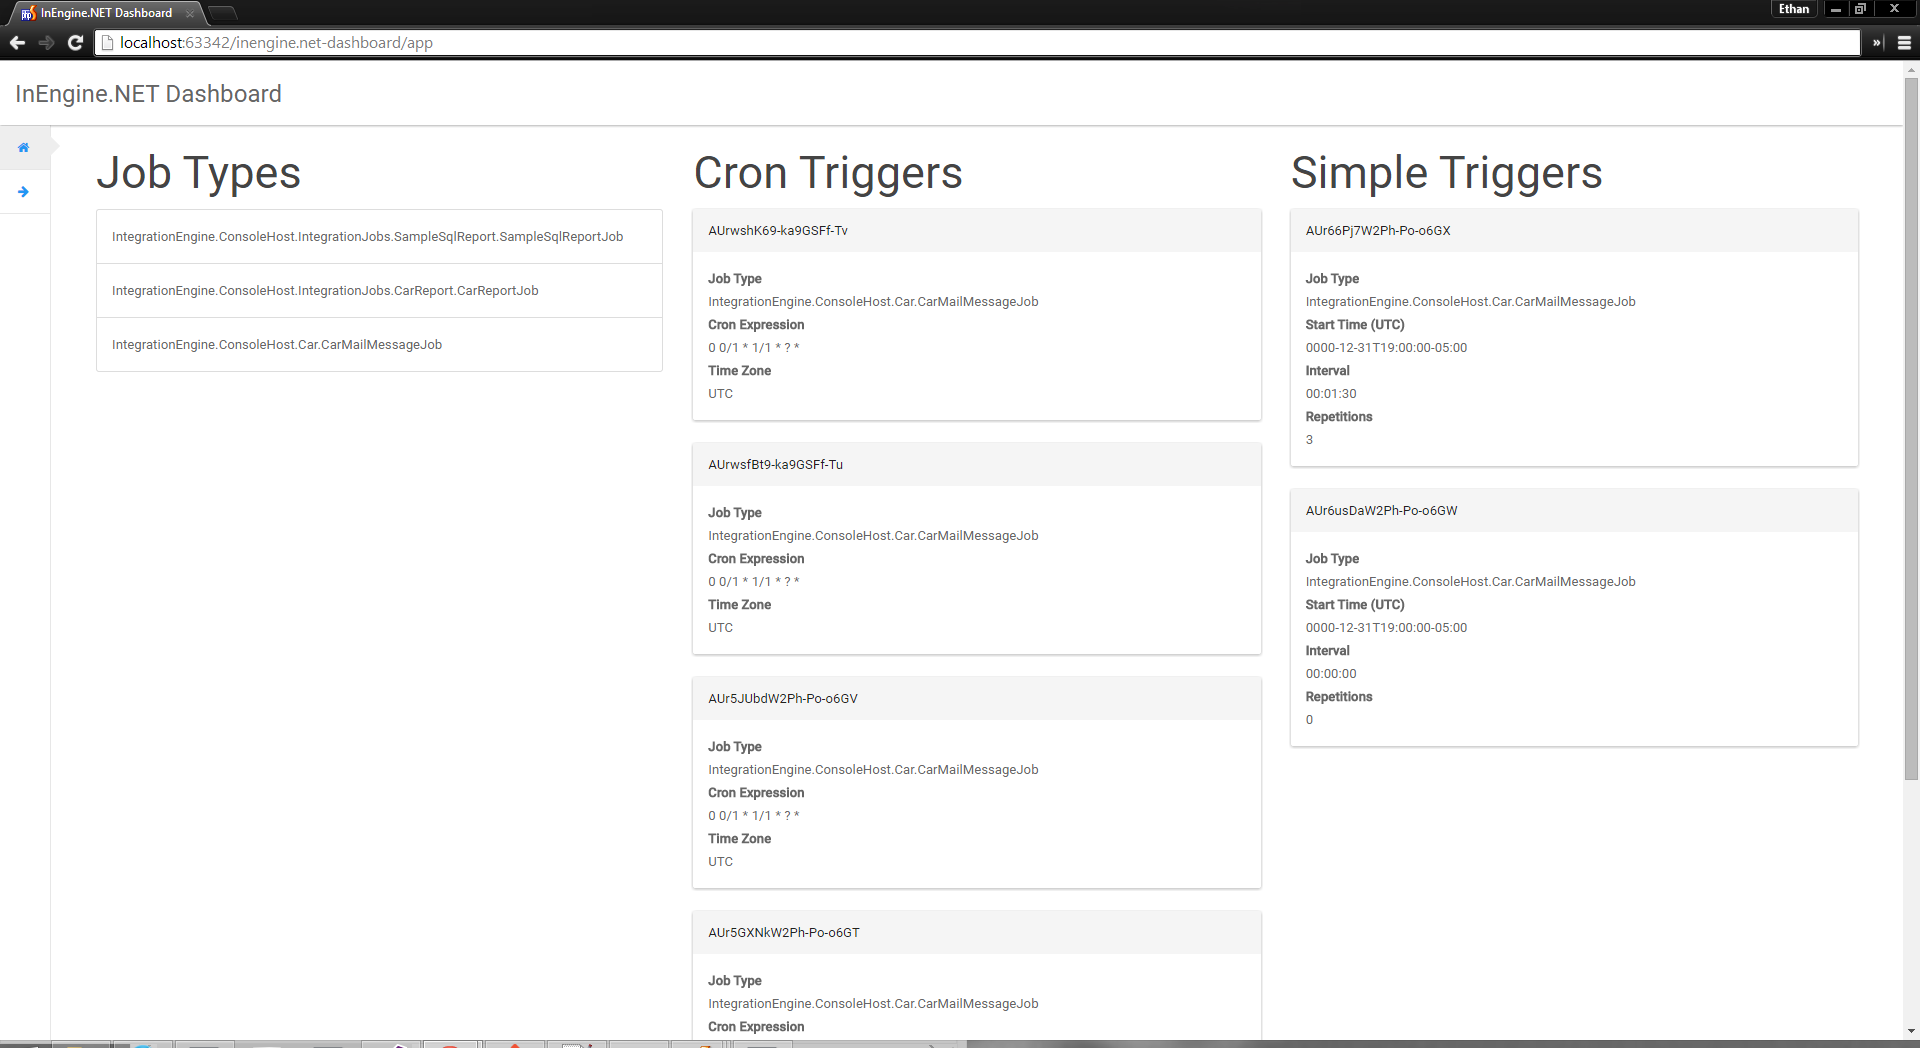
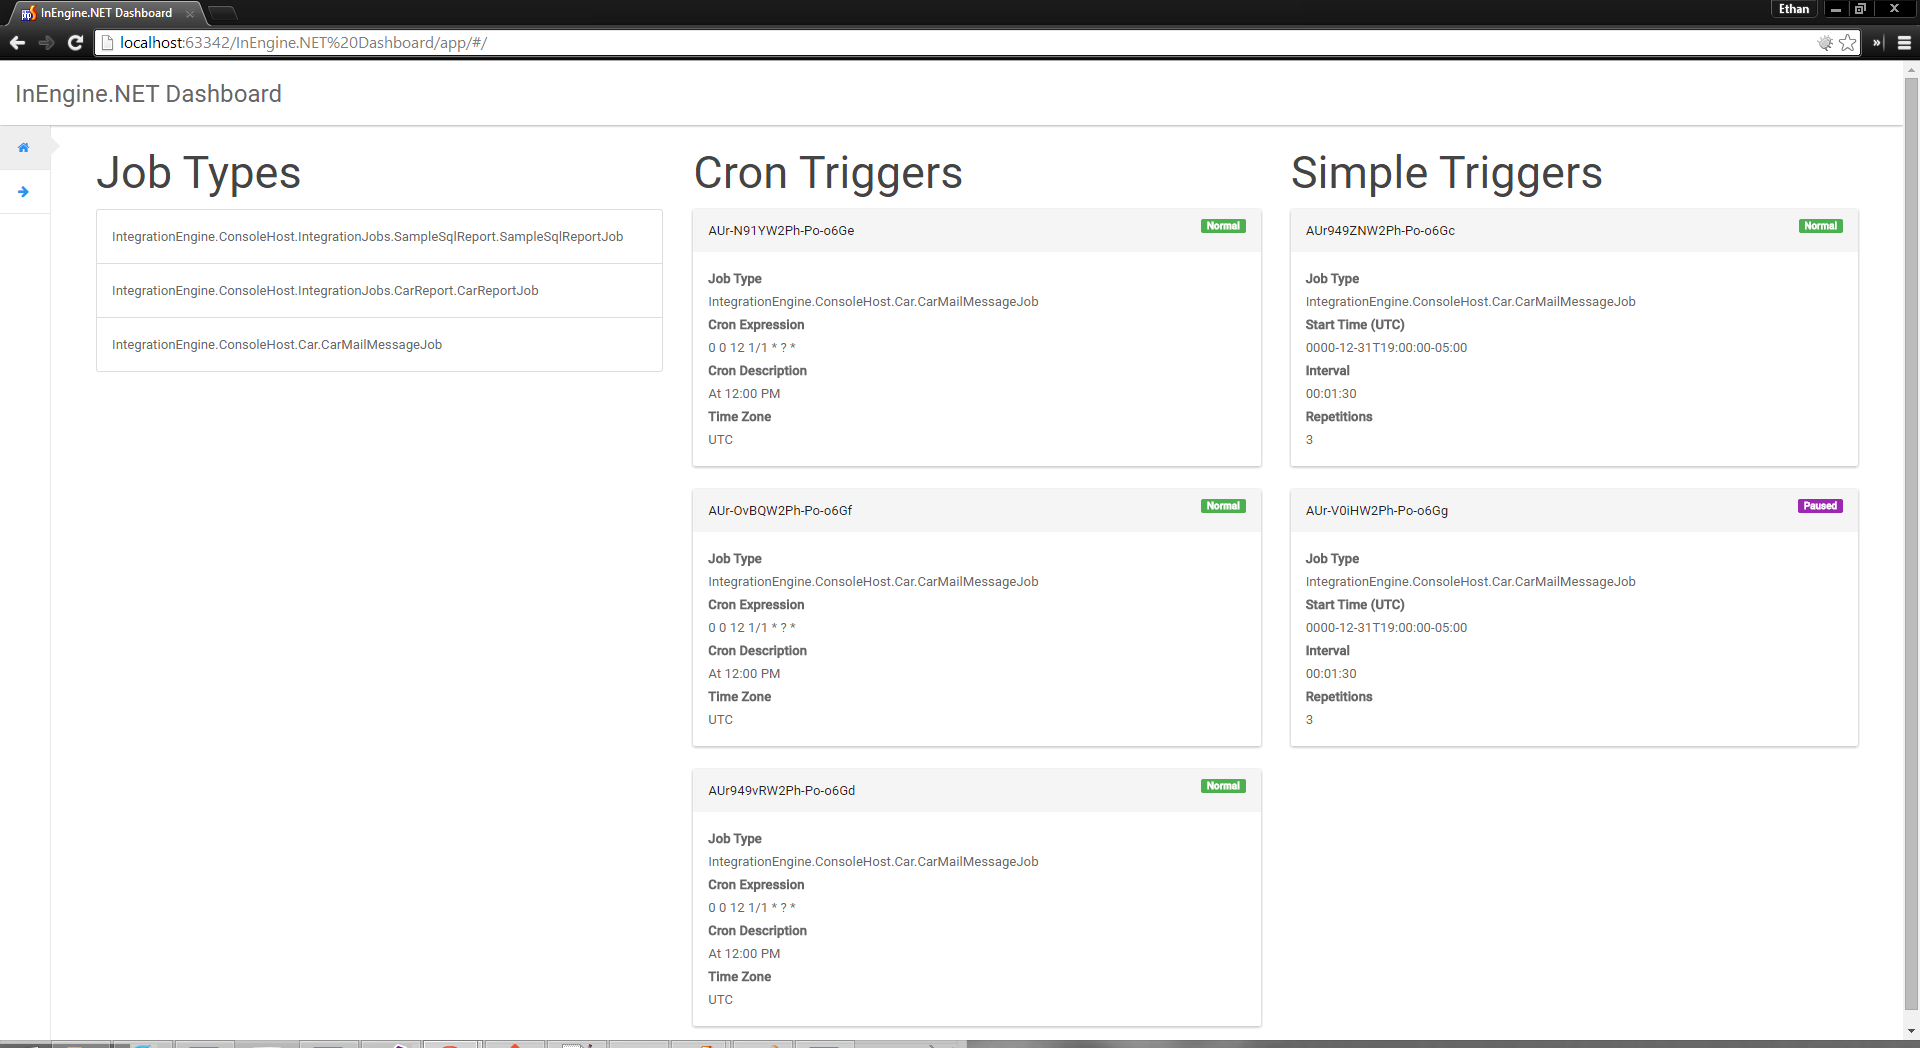
Show trigger state

diff --git a/app/home/home.html b/app/home/home.html
@@ -13,6 +13,10 @@
             <div class="panel panel-default" ng-repeat="trigger in cronTriggers">
                 <div class="panel-heading">
                     {{ trigger.Id }}
+                    <span class="pull-right label"
+                          ng-class="{'label-success': trigger.StateId == 0,
+                                     'label-default': trigger.StateId == 1}">
+                        {{ trigger.StateDescription }}</span>
                 </div>
                 <div class="panel-body">
                     <strong>Job Type</strong>
@@ -22,7 +26,7 @@
                     <strong>Cron Description</strong>
                     <div>{{ trigger.CronExpressionDescription }}</div>
                     <strong>Time Zone</strong>
-                    <div>{{ trigger.TimeZone.StandardName }}</div>
+                    <div>{{ trigger.TimeZoneId }}</div>
                 </div>
             </div>
         </div>
@@ -32,6 +36,10 @@
             <div class="panel panel-default" ng-repeat="trigger in simpleTriggers">
                 <div class="panel-heading">
                     {{ trigger.Id }}
+                    <span class="pull-right label"
+                          ng-class="{'label-success': trigger.StateId == 0,
+                                     'label-info': trigger.StateId == 1}">
+                        {{ trigger.StateDescription }}</span>
                 </div>
                 <div class="panel-body">
                     <strong>Job Type</strong>

diff --git a/app/app.js b/app/app.js
@@ -26,6 +26,7 @@
         });
     }
 
+
     angular.module('inEngine', [
         'angularMoment',
         'eehNavigation',
